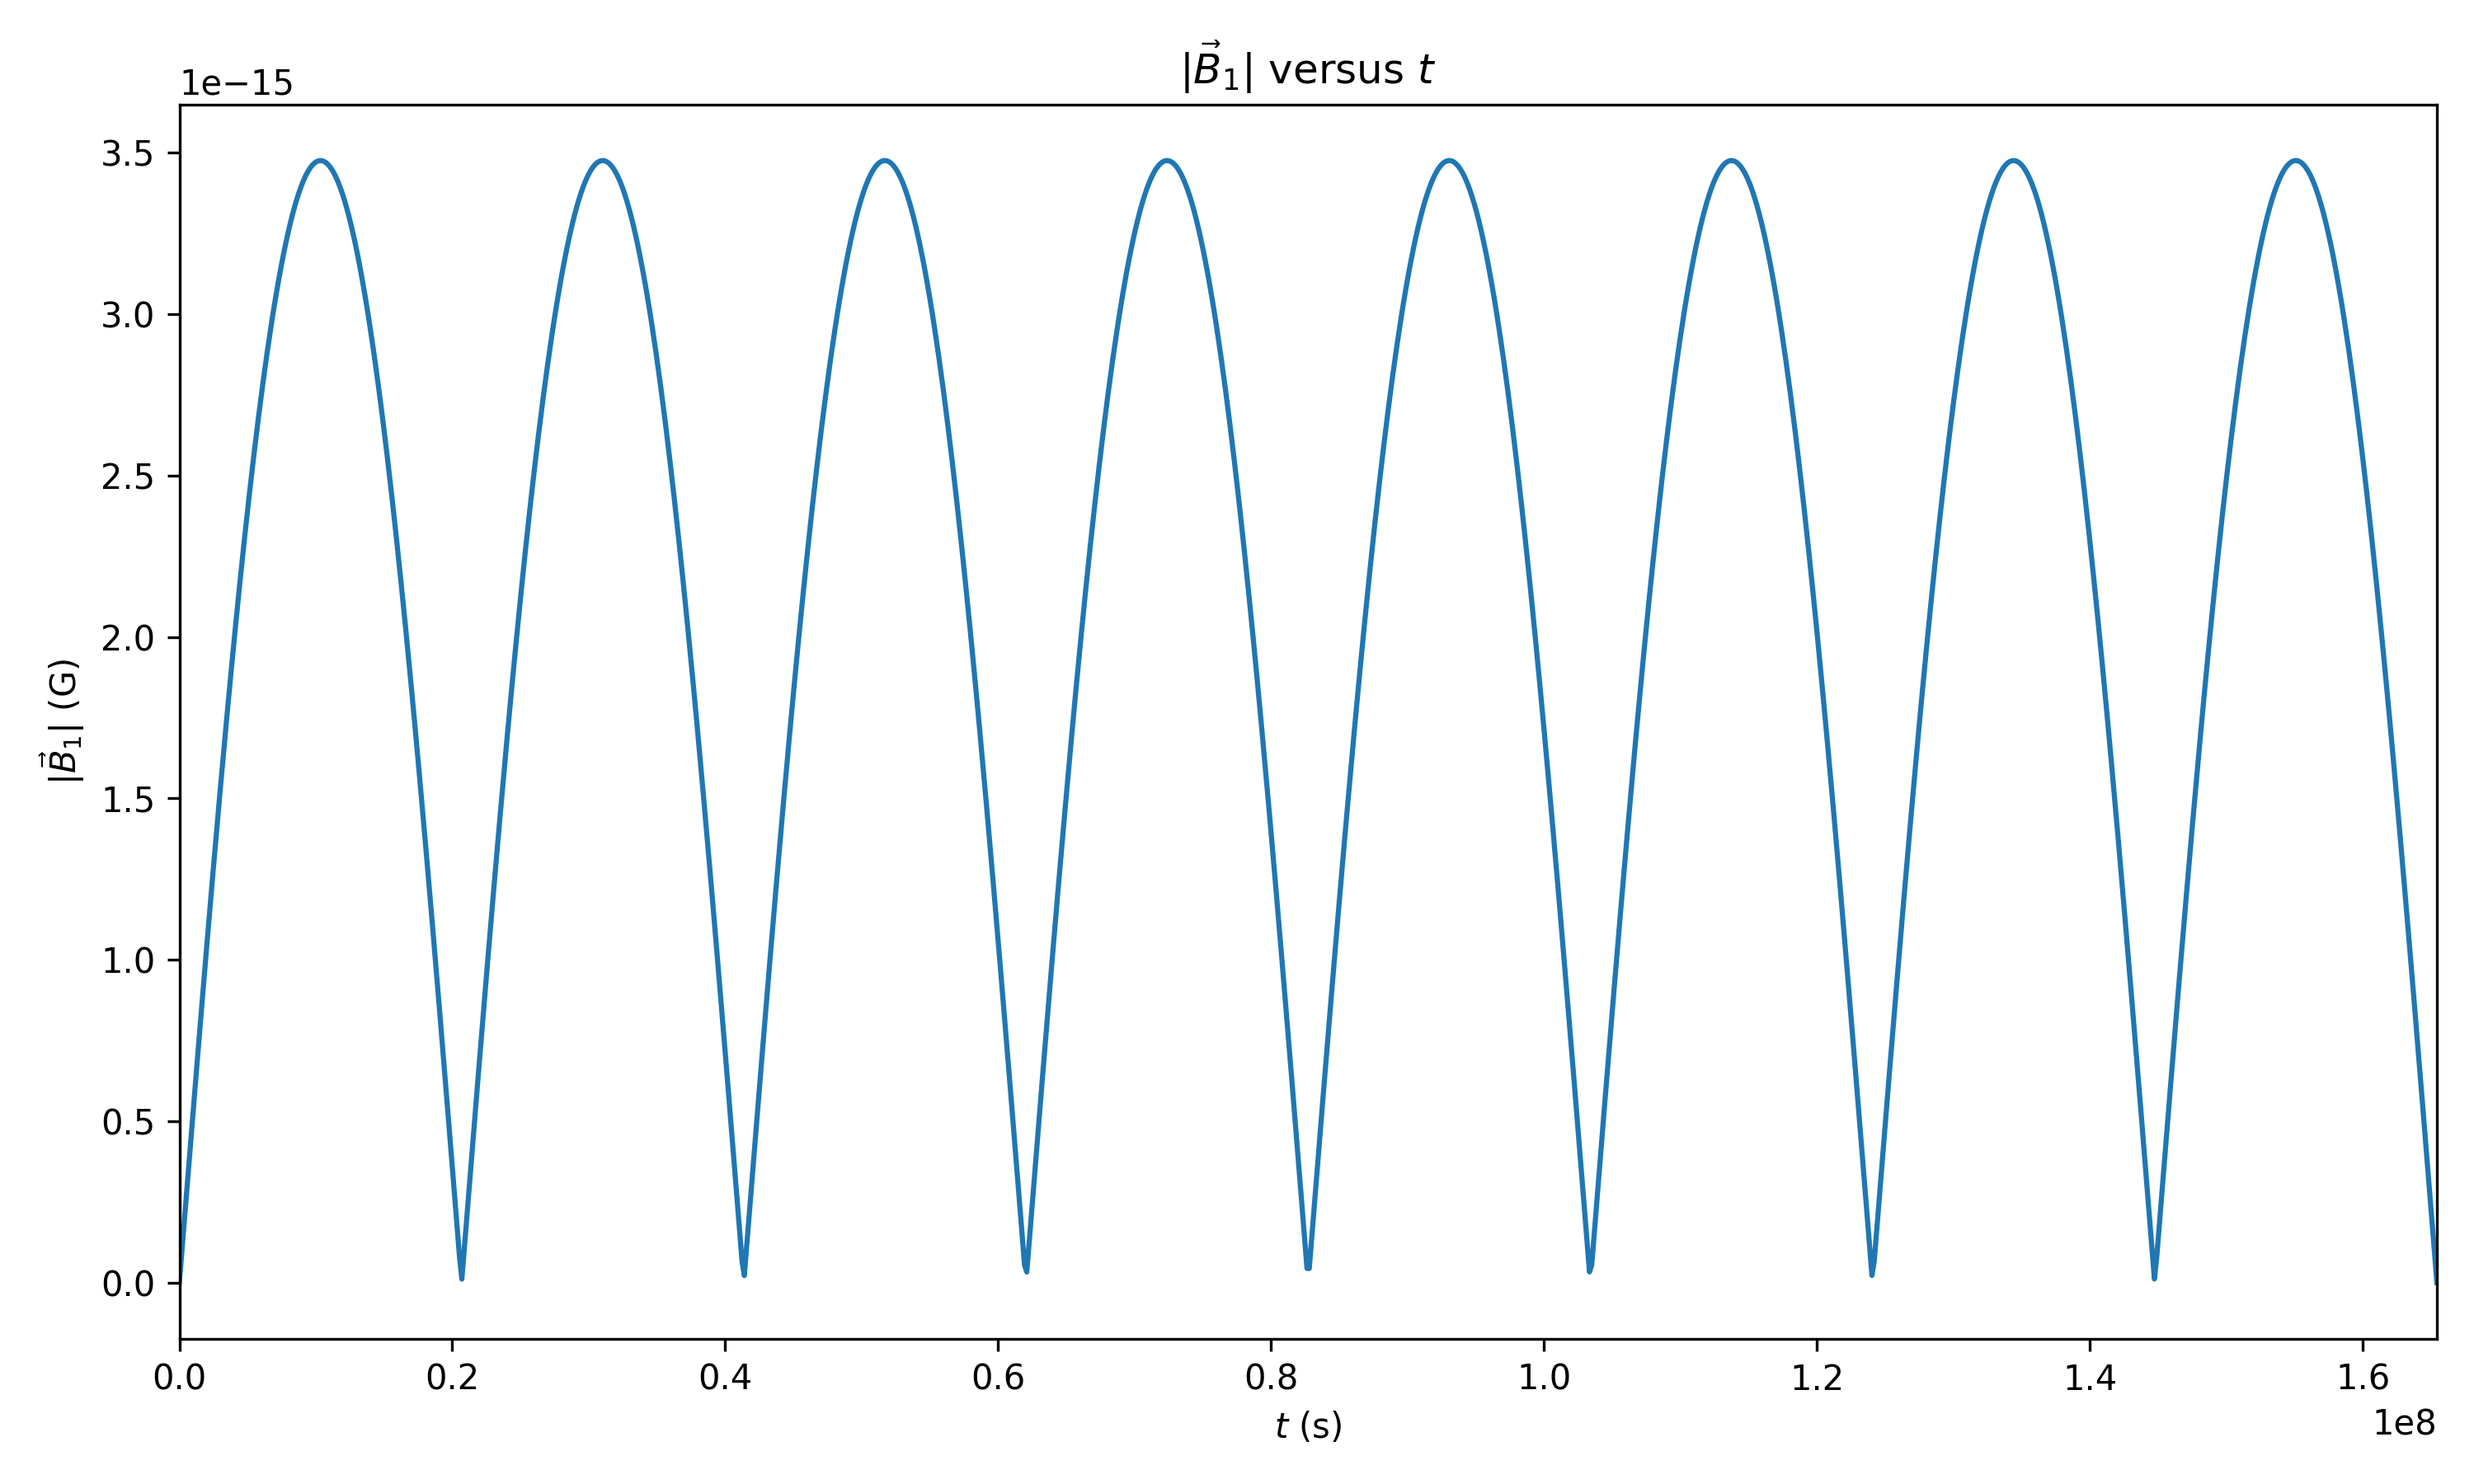
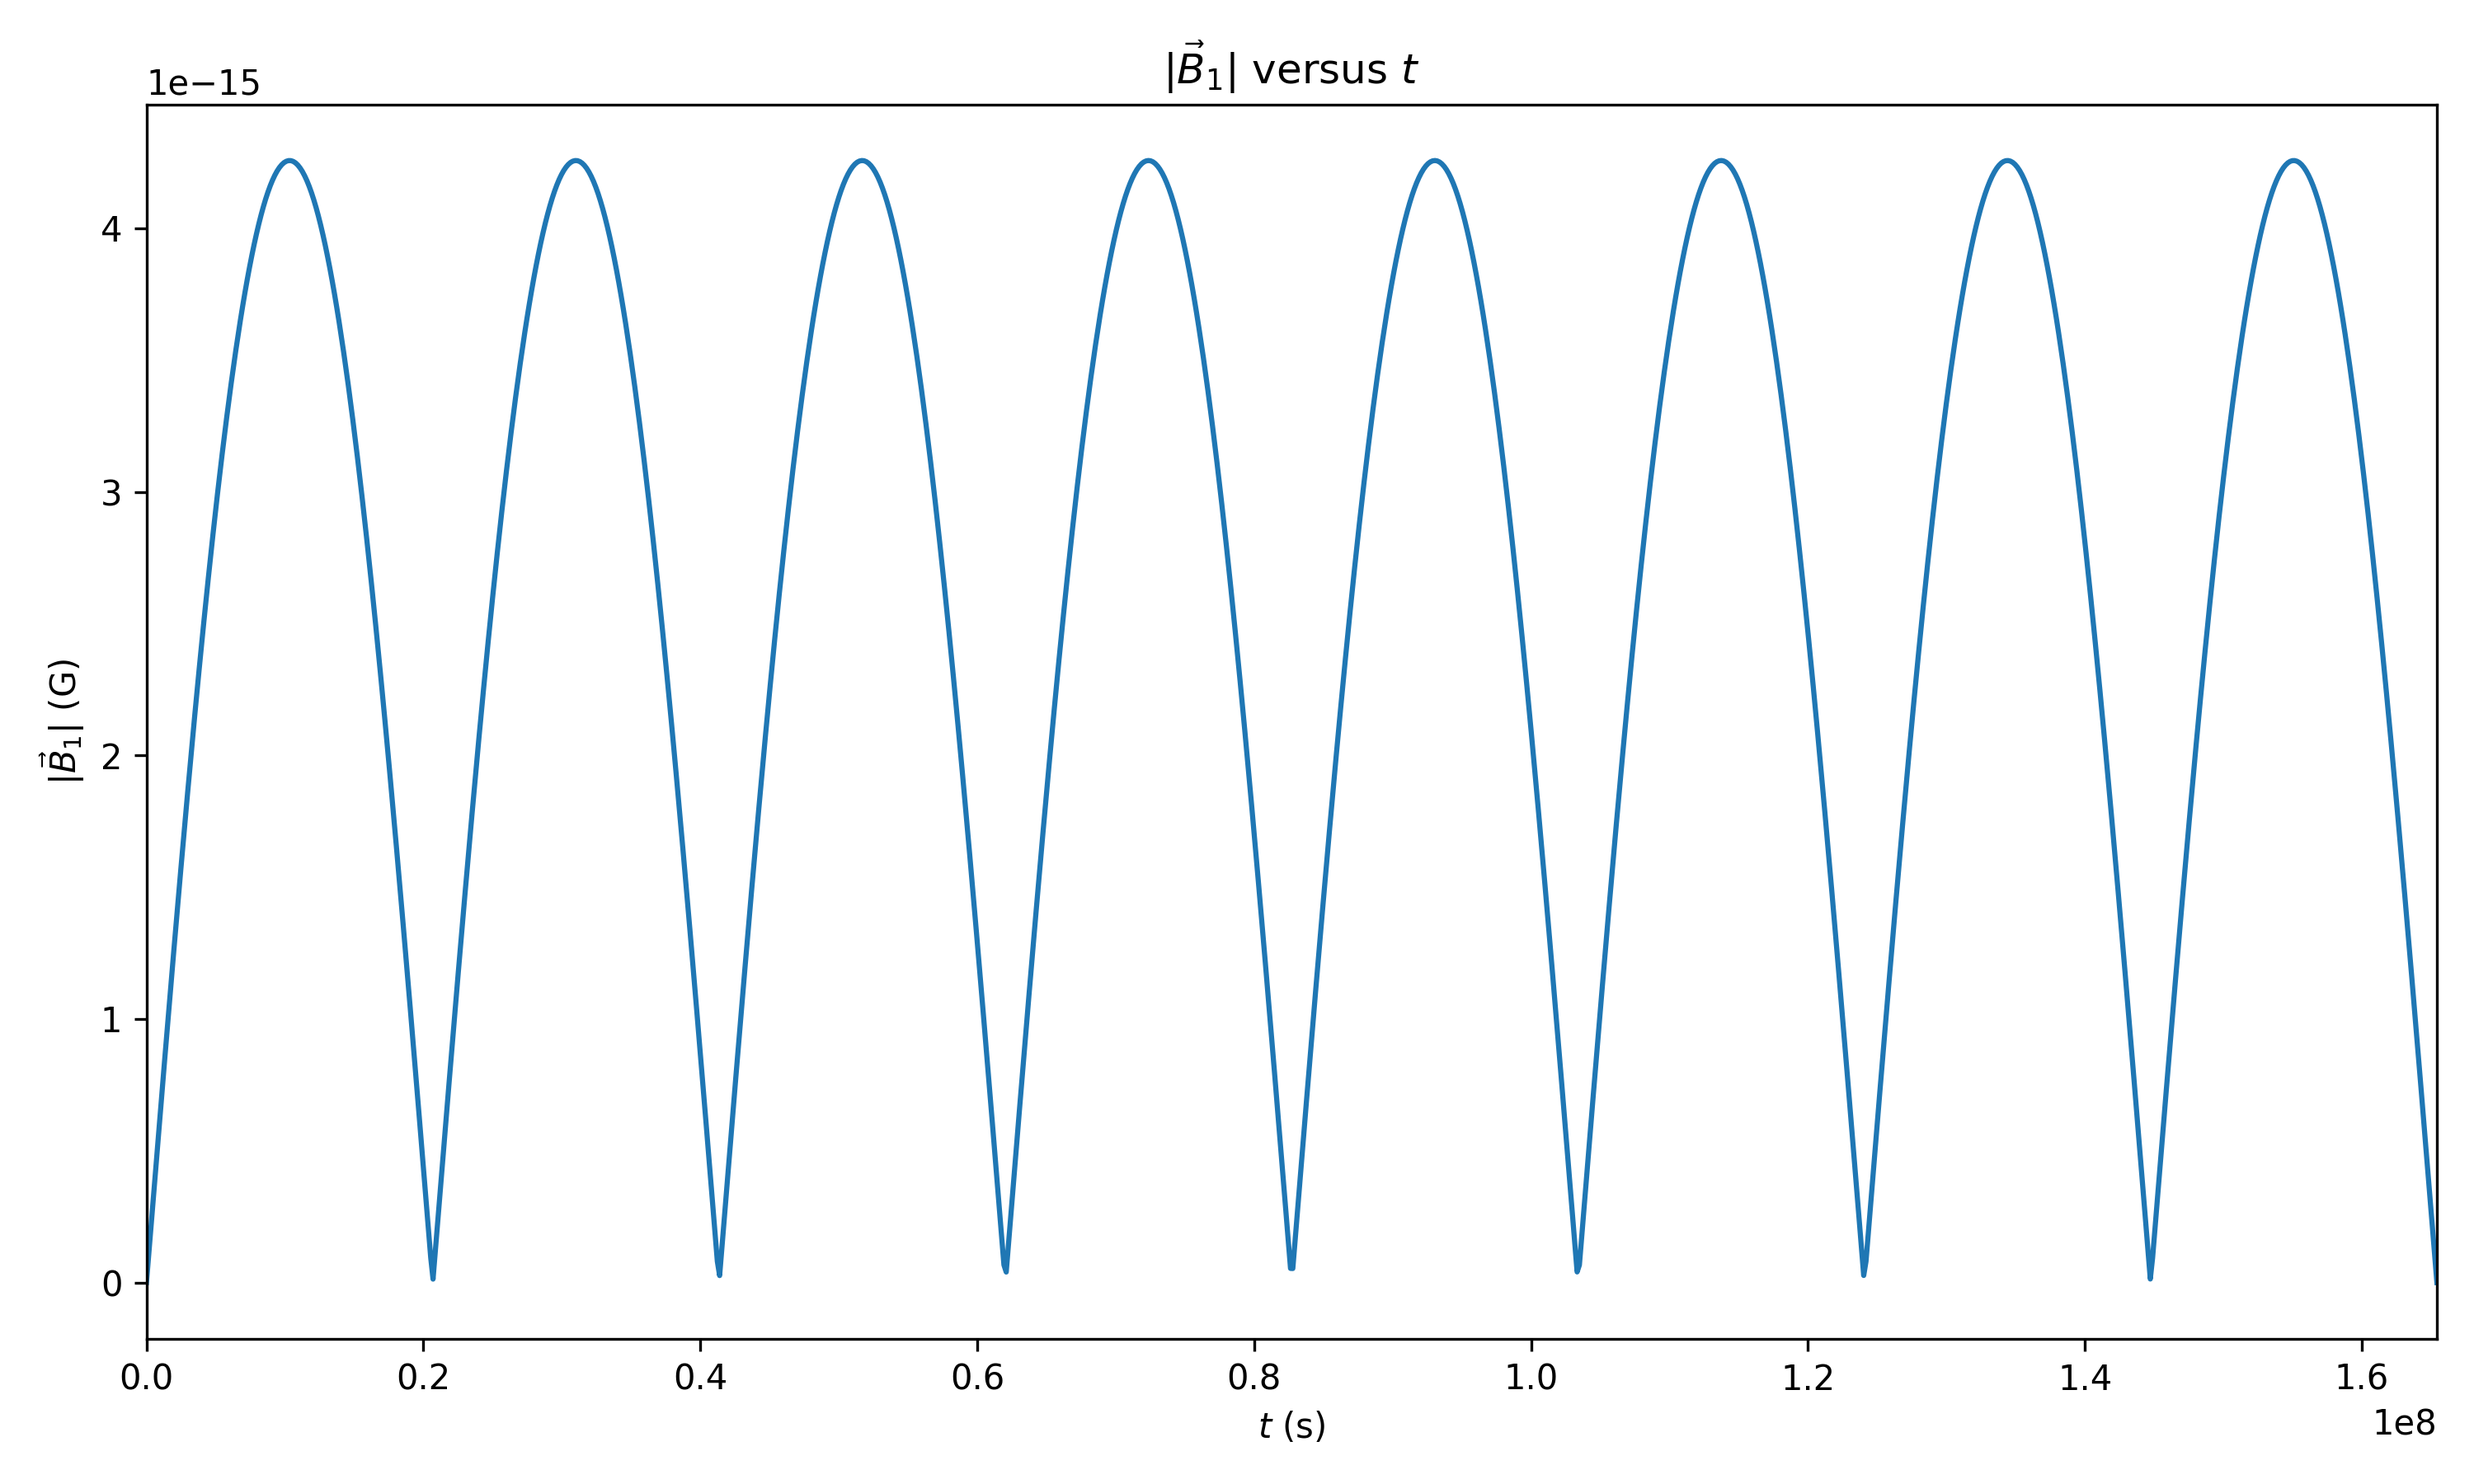
In progress

diff --git a/B1_radial.py b/B1_radial.py
@@ -31,31 +31,68 @@ pc_to_m = u.pc.to(u.m)
 s_to_eVminus1 = e_au / hbar
 T_to_eV2 = kg_to_eV / C_to_eV / s_to_eVminus1
 
+# Define the paths for the folders
+folders = ["Figure"]
+
+# Check if the folders exist, create them if they do not
+for folder in folders:
+    if not os.path.exists(folder):
+        os.makedirs(folder)
+
+# Parameters of L1544
+dist_l1544 = 140 * u.pc # Distance to L1544
+ra_l1544 = (5 * 15 + 4 / 4 + 17.21 / 240) * u.deg # Right ascension
+dec_l1544 = (25 + 10 / 60 + 42.8 / 3600) * u.deg # Declination
+
+# Create SkyCoord object for L1544 and convert to Cartesian
+coord_l1544 = SkyCoord(ra=ra_l1544, dec=dec_l1544, distance=dist_l1544)
+cart_l1544 = coord_l1544.cartesian
+
+# Parameters of Galactic Centre
+dist_gc = 8 * 1e3 * u.pc # Distance to Galactic Centre
+l_gc = 0 * u.deg # Galactic longitude
+b_gc = 0 * u.deg # Galactic latitude
+
+# Create SkyCoord object for Galactic Centre and convert to Cartesian
+coord_gc = SkyCoord(l=l_gc, b=b_gc, distance=dist_gc, frame="galactic")
+cart_gc = coord_gc.icrs.cartesian
+
+# Position vector from Galactic Centre to L1544
+cart_gctol1544 = cart_l1544 - cart_gc
+
+# Calculate the distance of L1544 from Galactic Centre (pc)
+r_p = np.linalg.norm(cart_gctol1544.xyz)
+
+# Calculate the angle between the vector from Galactic Centre to L1544 and the vector to L1544
+angle = np.arccos(np.dot(cart_gctol1544.xyz, cart_l1544.xyz) / (r_p * np.linalg.norm(cart_l1544.xyz)))
+print(f"The angle between the vector from Galactic Centre to L1544 and the vector to L1544 is {angle:.2e}.")
+
+# Calculate the internal magnetic field
+B_int = 1 / (4 * pi * epsilon_0) * e_au / (m_e * c**2 * r_e**3) * hbar
+print(f"The magnitude of internal magnetic field is roughly {B_int:.2f}T.")
+
+# Specify the potential and particle types
+potential_type = "flat" # sech or flat
+particle_type = "axion" # axion or dark photon
+
 # Common parameters
 B_bar = 1e-10 # Background magnetic field (T)
 print(f"The magnitude of background magnetic field is {B_bar * T_to_eV2:.2e}eV^2.")
 
-# Parameters of flat potential
+# Calculate distance of L1544 from Galactic Centre (eV^-1)
+r_p = r_p.value * pc_to_m * m_to_eVminus1
+print(f"The distance of L1544 from Galactic Centre is {r_p:.2e}eV^-1.")
+
+# Parameter space
 f = 1e26 # Energy scale of axion (eV)
+fs = np.logspace(23, 27, 1000)
 m_a = 1e-22 # Axion mass, 1e-18 to 1e-22 (eV)
+m_as = np.logspace(-22, -18, 1000)
+omega_as = m_as
 m_d = 1e-22 # Dark photon mass, 1e-18 to 1e-22 (eV)
+m_ds = np.logspace(-22, -18, 1000)
 mu = 1e-6 * m_d # Chemical potential of dark photon (eV)
 r_c_pc = 180 # Core radius (pc)
-
-# Calculate mass density of axion field (eV^4)
-rho0 = 1.9 * (m_a / 1e-23)**(-2) * (r_c_pc / 1e3)**(-4) * M_s
-rho0 *= kg_to_eV * (pc_to_m * m_to_eVminus1)**(-3)
-
-# Scaling constants
-a_a = (9.1e-2 / r_c_pc**2) * (pc_to_m * m_to_eVminus1)**(-2) # Scaling constant of axion (eV^2)
-a_d = a_a # Scaling constant of dark photon (eV^2)
-
-# Core radius (eV^-1)
-r_c = r_c_pc * pc_to_m * m_to_eVminus1
-
-# Calculate amplitudes
-phi0 = (2 * rho0)**0.5 / m_a # Amplitude of axion potential (eV)
-A0 = phi0 # Amplitude of dark photon potential (eV)
 
 # Coupling constants and frequencies
 g_ac = alpha / np.pi / f # Coupling constant (eV^-1)
@@ -63,12 +100,123 @@ epsilon = 1e-3 # Coupling strength, 1e-3 to 1e-5
 omega_a = m_a # Oscillation frequency of axion (eV)
 omega_d = m_d - mu # Oscillation frequency of dark photon (eV)
 
-# Print the proportionality constant between dark photon and axion
-print(f"Proportionality constant between dark photon and axion: {epsilon * m_d / (g_ac * B_bar):.2e}.")
+# Core radius (eV^-1)
+r_c = r_c_pc * pc_to_m * m_to_eVminus1
 
-# Common parameters of axion and dark photon
-cutoff_factor = np.sqrt((2**(1 / 4) - 1) / 0.091)
-r_cutoff = cutoff_factor * r_c
+# Set fiducial parameters
+def get_params(potential_type):
+    if potential_type == "sech":
+        # Parameters of sech potential
+        f = 1e19 # Energy scale of axion (eV)
+        phi0 = 3 * f # Amplitude of axion potential (eV)
+        g_ac = 0.66e-19 # Coupling constant (eV^-1)
+        m_a = 1e-5 # Axion mass (eV)
+        omega_a = 0.8 * m_a # Oscillation frequency (eV)
+        R = 2 / m_a # Radius of axion star (eV^-1)
+
+        # Define parameters dictionary
+        params = {
+            "phi0": phi0,
+            "R": R
+        }
+
+    elif potential_type == "flat":
+        # Parameters of flat potential
+        f = 1e26 # Energy scale of axion (eV)
+        m_a = 1e-22 # Axion mass, 1e-18 to 1e-22 (eV)
+        m_d = 1e-22 # Dark photon mass, 1e-18 to 1e-22 (eV)
+        mu = 1e-6 * m_d # Chemical potential of dark photon (eV)
+        r_c_pc = 180 # Core radius (pc)
+
+        # Calculate mass density of axion field (eV^4)
+        rho0 = 1.9 * (m_a / 1e-23)**(-2) * (r_c_pc / 1e3)**(-4) * M_s
+        rho0 *= kg_to_eV * (pc_to_m * m_to_eVminus1)**(-3)
+
+        # Scaling constants
+        a_a = (9.1e-2 / r_c_pc**2) * (pc_to_m * m_to_eVminus1)**(-2) # Scaling constant of axion (eV^2)
+        a_d = a_a # Scaling constant of dark photon (eV^2)
+
+        # Core radius (eV^-1)
+        r_c = r_c_pc * pc_to_m * m_to_eVminus1
+
+        # Calculate amplitudes
+        phi0 = (2 * rho0)**0.5 / m_a # Amplitude of axion potential (eV)
+        A0 = phi0 # Amplitude of dark photon potential (eV)
+
+        # Coupling constants and frequencies
+        g_ac = alpha / np.pi / f # Coupling constant (eV^-1)
+        epsilon = 1e-3 # Coupling strength, 1e-3 to 1e-5
+        omega_a = m_a # Oscillation frequency of axion (eV)
+        omega_d = m_d - mu # Oscillation frequency of dark photon (eV)
+
+        # Print the proportionality constant between dark photon and axion
+        print(f"Proportionality constant between dark photon and axion: {epsilon * m_d / (g_ac * B_bar):.2e}.")
+
+        # Define parameters dictionary
+        params = {
+            "B_bar": B_bar,
+            "r_p": r_p,
+            "phi0": phi0,
+            "A0": A0,
+            "g_ac": g_ac,
+            "epsilon": epsilon,
+            "omega_a": omega_a,
+            "omega_d": omega_d,
+            "m_d": m_d,
+            "a_a": a_a,
+            "a_d": a_d,
+            "r_c": r_c
+        }
+
+    return params
+
+# Calculate the magnetic field
+def calculate_B1(potential_type, particle_type, t, m, omega, g_ac, epsilon, r_p, params):
+        # Common parameters of sech and flat potentials
+        phi0 = params.get("phi0")
+        
+        # sech potential
+        if potential_type == "sech":
+            R = params.get("R")
+
+            # Calculate B1
+            B1 = B_bar / r_p * np.cos(- omega * t) * phi0 * g_ac * omega * 1 / 4 * np.pi**2 * R**2 * np.tanh(np.pi * omega * R / 2) / np.cosh(np.pi * omega * R / 2)
+        
+            return B1
+        
+        # flat potential
+        elif potential_type == "flat":
+            # Common parameters of axion and dark photon
+            r_c = params.get("r_c")
+            cutoff_factor = np.sqrt((2**(1 / 4) - 1) / 0.091)
+            r_cutoff = cutoff_factor * r_c
+
+            # Set parameters based on the particle type
+            if particle_type == "axion":
+                B_bar_x, B_bar_y, B_bar_z = 0, B_bar, 0 # Decompose B_bar into Cartesian coordinates
+                coeff = omega * g_ac * phi0 # Coefficient for axion
+            
+            elif particle_type == "dark photon":
+                A0 = params.get("A0")
+                B_bar_x, B_bar_y, B_bar_z = 0, j / np.sqrt(2), 0 # Pseudo-magnetic field representing the circular polarization vector
+                coeff = epsilon * m**2 * A0 # Coefficient for dark photon
+
+            # Calculate the integral based on the cutoff radius
+            if r_p > r_cutoff:
+                I = (- 1 + j * r_p * omega) * (r_cutoff * omega * np.cos(r_cutoff * omega) - np.sin(r_cutoff * omega)) / (r_p**2 * omega**3)
+            else:
+                I = (- 1 + j * r_cutoff * omega) * (r_p * omega * np.cos(r_p * omega) - np.sin(r_p * omega)) / (r_p**2 * omega**3)
+
+            # Calculate B1 components
+            B1_x_complex = coeff * B_bar_y * I
+            B1_y_complex = coeff * - B_bar_x * I
+            B1_z_complex = 0 # No contribution in the z direction
+
+            # Compute magnitudes
+            B1_x, B1_y, B1_z = np.abs(B1_x_complex), np.abs(B1_y_complex), np.abs(B1_z_complex)
+            B1 = np.sqrt(B1_x**2 + B1_y**2 + B1_z**2)
+
+            return B1
 
 # Define the radial range
 r_p_max = 8000 * pc_to_m * m_to_eVminus1
@@ -78,41 +226,29 @@ r_ps = np.linspace(1 * r_c, r_p_max, 10000)
 B1r_ps_a = np.zeros(len(r_ps))
 B1r_ps_d = np.zeros(len(r_ps))
 
+# Set the potential type
+potential_type = "flat"
+
 # Calculate B1 for both axion and dark photon
 for particle_type in ["axion", "dark photon"]:
+    # Get the parameters
+    params = get_params(potential_type)
+
     # Iterate over the radial range
     for r_p in r_ps:
-        # Set parameters based on the particle type
         if particle_type == "axion":
-            omega, a = omega_a, a_a
-            B_bar_x, B_bar_y, B_bar_z = 0, B_bar, 0 # Decompose B_bar into Cartesian coordinates
-            coeff = omega_a * g_ac * phi0 # Coefficient for axion
-        
-        elif particle_type == "dark photon":
-            omega, a = omega_d, a_d
-            B_bar_x, B_bar_y, B_bar_z = 0, j / np.sqrt(2), 0 # Pseudo-magnetic field representing the circular polarization vector
-            coeff = epsilon * m_d**2 * A0 # Coefficient for dark photon
+            # Calculate B1
+            B1 = calculate_B1(potential_type, particle_type, 0, m_a, omega_a, g_ac, epsilon, r_p, params)
 
-        # Calculate the integral based on the cutoff radius
-        if r_p > r_cutoff:
-            I = (- 1 + j * r_p * omega) * (r_cutoff * omega * np.cos(r_cutoff * omega) - np.sin(r_cutoff * omega)) / (r_p**2 * omega**3)
-        else:
-            I = (- 1 + j * r_cutoff * omega) * (r_p * omega * np.cos(r_p * omega) - np.sin(r_p * omega)) / (r_p**2 * omega**3)
-
-        # Calculate B1 components
-        B1_x_complex = coeff * B_bar_y * I
-        B1_y_complex = coeff * - B_bar_x * I
-        B1_z_complex = 0 # No contribution in the z direction
-
-        # Compute magnitudes
-        B1_x, B1_y, B1_z = np.abs(B1_x_complex), np.abs(B1_y_complex), np.abs(B1_z_complex)
-        B1 = np.sqrt(B1_x**2 + B1_y**2 + B1_z**2)
-        
-        # Store the result in the appropriate array
-        if particle_type == "axion":
+            # Store the result
             B1r_ps_a[np.where(r_ps == r_p)] = B1
+
         elif particle_type == "dark photon":
-            B1r_ps_d[np.where(r_ps == r_p)] = B1
+            # Calculate B1
+            B1 = calculate_B1(potential_type, particle_type, 0, m_d, omega_d, g_ac, epsilon, r_p, params)
+
+            # Store the result
+            B1r_ps_d[np.where(r_ps == r_p)] = B1            
 
 # Create a figure
 plt.figure(figsize=(10, 6))

diff --git a/zeeman.py b/zeeman.py
@@ -87,7 +87,7 @@ def calculate_B1(potential_type, particle_type, t, params):
             omega_a = params.get("omega_a")
             a_a = params.get("a_a")
             omega, a = omega_a, a_a
-            B_bar_x, B_bar_y, B_bar_z = B_bar / np.sqrt(3), B_bar / np.sqrt(3), B_bar / np.sqrt(3) # Decompose B_bar into Cartesian coordinates
+            B_bar_x, B_bar_y, B_bar_z = 0, B_bar, 0 # Decompose B_bar into Cartesian coordinates
             coeff = omega * g_ac * phi0 # Coefficient for axion
 
         # Dark photon
@@ -110,7 +110,7 @@ def calculate_B1(potential_type, particle_type, t, params):
         # Calculate B1 components
         B1_x_complex = coeff * np.exp(- j * omega * t) * B_bar_y * I
         B1_y_complex = coeff * np.exp(- j * omega * t) * - B_bar_x * I
-        B1_z_complex = coeff * np.exp(- j * omega * t) * 0
+        B1_z_complex = 0 # No contribution in the z direction
 
         # Compute magnitudes
         B1_x = np.real(B1_x_complex)
